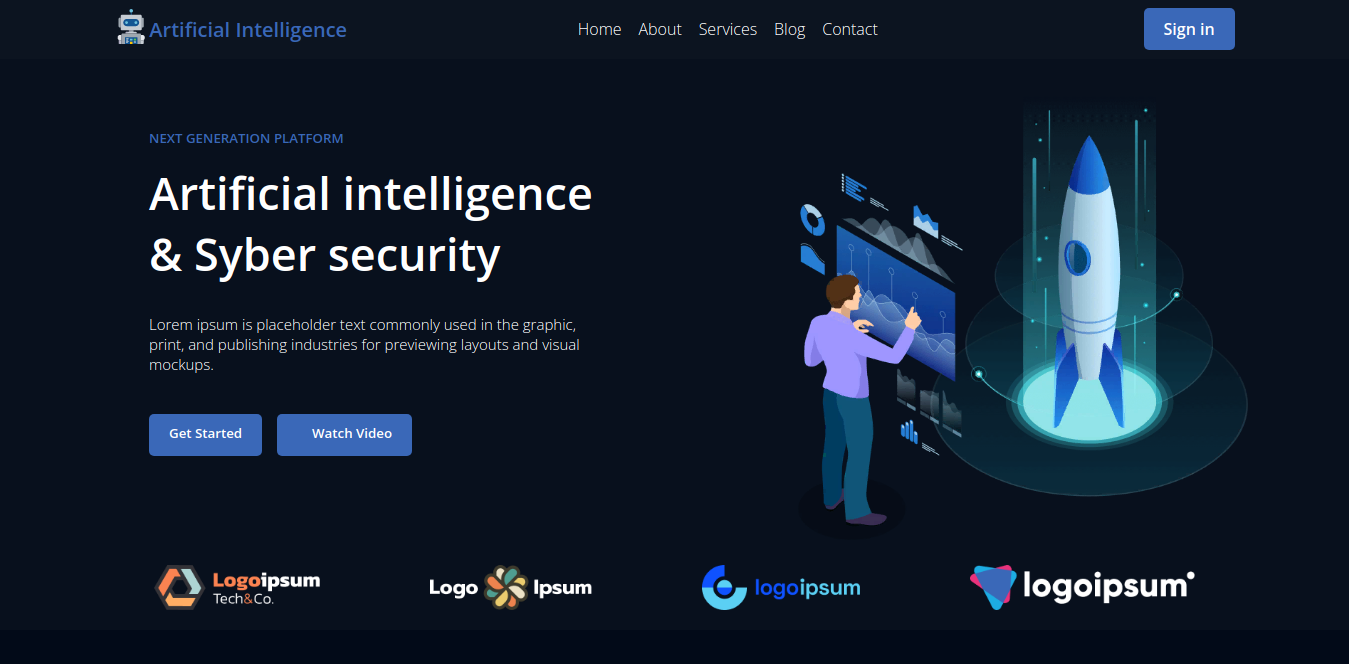
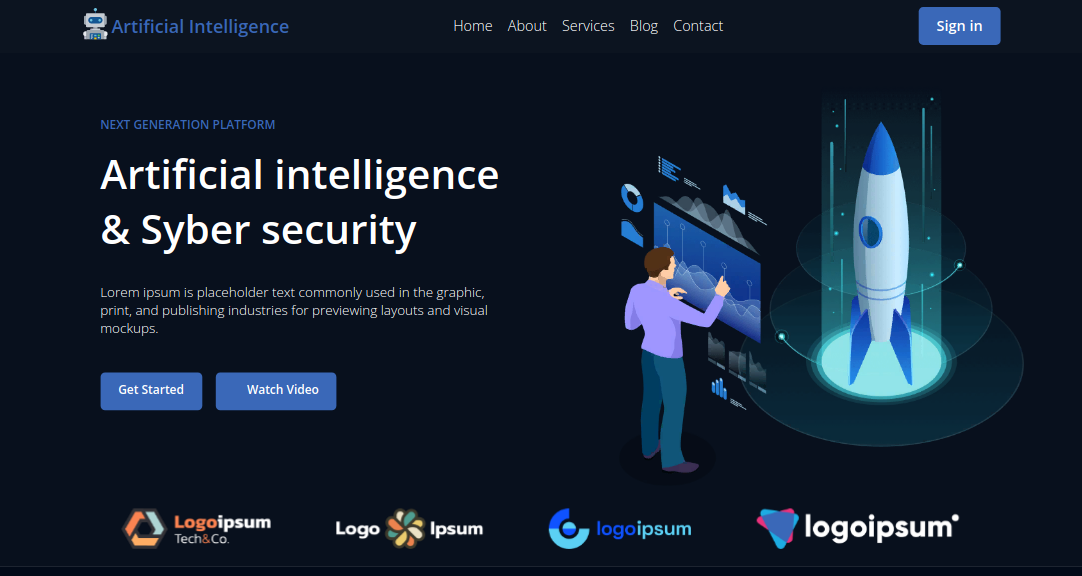
Commit commit

diff --git a/css/media.css b/css/media.css
@@ -9,6 +9,9 @@
     .mobile{
         display: none;
     }
+    .about-me__description__mobile{
+        display: none;
+    }
 }
 @media screen and (min-width: 1400px) {
     .project-title{
@@ -339,26 +342,7 @@
 
 
 /* MOBILE */
-
 @media screen and (max-width: 425px) {
-    .desktop{
-        display: none;
-    }
-    .header-desktop{
-        display: none;
-    }
-    .logo{
-        width: auto;
-        position: absolute;
-        top: 15px;
-        right: 25px;
-    }
-    header{
-        justify-content: flex-end;
-        position: relative;
-        margin: -1% 0;
-        box-shadow: 0 0 3px 0 #000;
-    }
     .container {
         position: relative;
         width: 100vw;
@@ -655,5 +639,80 @@
         right: 0;
         background-color: #958C6B;
     }
-
+}
+@media screen and (max-width: 425px) {
+    .desktop{
+        display: none;
+    }
+    .header-desktop{
+        display: none;
+    }
+    .logo{
+        width: auto;
+        position: absolute;
+        top: 15px;
+        right: 25px;
+    }
+    header{
+        justify-content: flex-end;
+        position: relative;
+        margin: -1% 0;
+        box-shadow: 0 0 3px 0 #000;
+    }
+    .about-me__name{
+        font-size: 30px;
+    }
+    .wrapper{
+        margin-top: 6%;
+    }
+    .about-me__description{
+        display: none;
+    }
+    .about-me__description__mobile{
+        text-align: center;
+        color: #4c556a;
+        font-size: 18px;
+        width: 90%;
+        margin: 6% auto;
+        line-height: 1.4;
+        font-family: 'Source Sans Pro', sans-serif;
+        font-weight: 300;
+    }
+    .about-me{
+        height: auto;
+    }
+    .down-arrow{
+        display: none;
+    }
+    .skills__title{
+        font-size: 20px;
+        font-weight: 600;
+    }
+    .skill__name{
+        font-size: 12px;
+    }
+    .skill__number{
+        font-size: 12px;
+    }
+    .skills{
+        border-radius: 10px;
+        -webkit-border-radius: 10px;
+        -moz-border-radius: 10px;
+        -ms-border-radius: 10px;
+        -o-border-radius: 10px;
+    }
+    .skills__card{
+        gap: 5% 6%;
+        width: 95%;
+    }
+    .skill__line-active{
+        background-color: #57CE55;
+    }
+    .skill__line{
+        background-color: #666666;
+        width: 100%;
+    }
+    .skills__icon{
+        left: 2%;
+    }
 }

diff --git a/index.html b/index.html
@@ -74,6 +74,9 @@
         <p class="about-me__description">
             Я фронтенд-разработчик с опытом и страстью к кодированию и воплощению ТЗ в реальность :) <br> У меня большая любовь к проектам с большими задачами. Кроме того, я спокойный человек и вписываюсь в любую команду. Я работаю удаленно и экономлю ваш бюджет на своем рабочем месте.<br>Итак, если у вас сложная задача, вы нашли подходящего человека.
         </p>
+        <p class="about-me__description__mobile">
+            Я фронтенд-разработчик с опытом и страстью к кодированию и воплощению ТЗ в реальность. Итак, если у вас сложная задача, вы нашли подходящего человека.
+        </p>
         <div class="about-me__wrapper-img desktop">
             <img src="./img/avatar.webp" alt="avatar" class="about-me__img">
         </div>
@@ -207,15 +210,10 @@
             </div>
         </div>
     </footer>
+    <a class="back_to_top" title="Наверх"></a>
+
     <script src="https://cdnjs.cloudflare.com/ajax/libs/jquery/3.3.1/jquery.min.js"></script>
-    <script>
-        $('a[href*="#"]').on('click', function (e) {
-            e.preventDefault();
-            
-            $('html, body').animate({
-              scrollTop: $($(this).attr('href')).offset().top
-            }, 400, 'linear');
-        });
-    </script>
+    <script src="./js/slow-down.js"></script>
+    <script src="./js/upTop.js"></script>
 </body>
 </html>

diff --git a/css/style.css b/css/style.css
@@ -67,11 +67,10 @@ header{
 }
 .title-text{
     text-align: center;
-    font-weight: 600;
-    font-family: 'Laila', sans-serif;
+    font-weight: 500;
+    font-family: 'Ubuntu', sans-serif;
     margin-bottom: 4%;
     font-size: 40px;
-    font-family: 'Comic Relief';
 }
 a{
     text-decoration: none;
@@ -152,7 +151,7 @@ a{
     text-align: center;
     font-size: 52px;
     color: white;
-    font-family: 'Rubik', sans-serif;
+    font-family: 'Ubuntu', sans-serif;
     font-weight: 400;
     padding-top: 1%;
 }
@@ -485,4 +484,24 @@ footer{
     50% {
       border-color: transparent
     }
+  }
+
+  /* uPTOP */
+
+
+  .back_to_top {
+    position: fixed;
+    bottom: 30px;
+    right: 30px;
+    z-index: 9999;
+    width: 40px;
+    height: 40px;
+    background: url(../icons/uptop.svg);
+    color: #444;
+    cursor: pointer;
+    border-radius: 2px;
+    display: none;
+  }
+  .back_to_top-show {
+    display: block;
   }

diff --git a/js/upTop.js b/js/upTop.js
@@ -1,0 +1,27 @@
+(function() {
+  'use strict';
+
+  function trackScroll() {
+    var scrolled = window.pageYOffset;
+    var coords = document.documentElement.clientHeight;
+
+    if (scrolled > coords) {
+      goTopBtn.classList.add('back_to_top-show');
+    }
+    if (scrolled < coords) {
+      goTopBtn.classList.remove('back_to_top-show');
+    }
+  }
+
+  function backToTop() {
+    if (window.pageYOffset > 0) {
+      window.scrollBy(0, -65);
+      setTimeout(backToTop, 0);
+    }
+  }
+
+  var goTopBtn = document.querySelector('.back_to_top');
+
+  window.addEventListener('scroll', trackScroll);
+  goTopBtn.addEventListener('click', backToTop);
+})();

diff --git a/fonts/fonts.css b/fonts/fonts.css
@@ -1,5 +1,6 @@
 @import url('https://fonts.googleapis.com/css2?family=Laila&family=Rubik:wght@400;500;600;800&display=swap');
-@import url('https://fonts.googleapis.com/css2?family=Source+Sans+Pro:wght@400;600;700&display=swap');
+@import url('https://fonts.googleapis.com/css2?family=Source+Sans+Pro:wght@300;400;600;700&display=swap');
+@import url('https://fonts.googleapis.com/css2?family=Ubuntu:wght@400;500&display=swap');
 @font-face {
     font-family: 'Comic Relief';
     src: url(./Comic-Relief.otf);

diff --git a/js/slow-down.js b/js/slow-down.js
@@ -1,0 +1,7 @@
+$('a[href*="#"]').on('click', function (e) {
+    e.preventDefault();
+    
+    $('html, body').animate({
+      scrollTop: $($(this).attr('href')).offset().top
+    }, 400, 'linear');
+});
